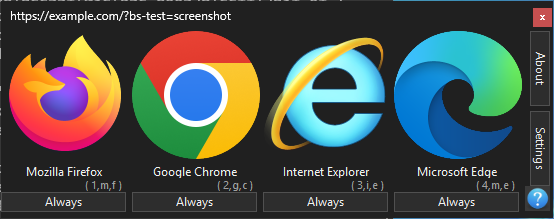
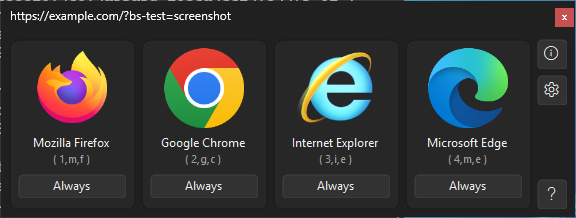
v1.5.8.0: Windows 11 look in every window; README changelog and picker screenshots

diff --git a/BrowserSelect/Properties/AssemblyInfo.cs b/BrowserSelect/Properties/AssemblyInfo.cs
@@ -36,5 +36,5 @@ using System.Runtime.InteropServices;
 // You can specify all the values or you can default the Build and Revision Numbers 
 // by using the '*' as shown below:
 // [assembly: AssemblyVersion("1.0.*")]
-[assembly: AssemblyVersion("1.5.7.0")]
-[assembly: AssemblyFileVersion("1.5.7.0")]
+[assembly: AssemblyVersion("1.5.8.0")]
+[assembly: AssemblyFileVersion("1.5.8.0")]

diff --git a/README.md b/README.md
@@ -79,6 +79,20 @@ Just a list of some ideas that can be integrated into BrowserSelect.
 
 # Changelog
 
+v1.5.8.0
+- **Windows 11 look in every window** (like Settings in 1.5.7.0; layout and appearance only, every feature, shortcut and message works as before). Window corners are the standard Windows 11 rounded corners (8 px, `DWMWCP_ROUND`) for every window; Windows 10 keeps square corners
+- **Browser picker:** every browser is a rounded **card** (icon, name, shortcut hint, rounded *Always* button). The card is tinted and gets an accent-colored border under the mouse and a stronger tint while pressed. Keyboard shortcuts (1-9, letters, custom keys, Shift for a private window, Esc), the right-click *Open in private window* menu, Alt to skip rules, window size and multi-monitor positioning are unchanged
+- The vertical *About* / *Settings* buttons are now small rounded **icon buttons** (ⓘ About, gear Settings, ? help) with tooltips, so long translations no longer have to fit vertically. When an update is available the ? button shows an accent-colored **download arrow** (tooltip: update available). Without an icon font (Segoe Fluent Icons / Segoe MDL2 Assets) the old vertical text buttons are drawn rounded
+- **About** and **Original project info:** large header, the description, GitHub/contact links and the Bitcoin donation (QR code, address, rounded *Copy address*) in cards; *Original project info...* is a rounded button. Long translations wrap instead of being shrunk
+- **Add / Edit browser:** the fields in a card, rounded text fields (accent line at the bottom while editing; read-only fields are greyed), icon preview in a rounded frame with *Change...* / *Default* beside it, *OK* in the accent color; the label column grows with the translation
+- **Help windows** (? and Settings → Auto Select Filters → Help): the text in a rounded card, rounded *Close* button
+- **Update download window:** thin rounded progress bar in the accent color, rounded *Cancel*; the window now also scales with the display (it stayed at 100 % size before)
+- New drawn controls in `BrowserSelect/UI/Fluent.cs`: FluentTextBoxHost (rounded text field), FluentProgressBar; FluentButton can show an icon. No new texts: tooltips reuse existing translations
+- Help (?, all 12 languages): the browser list section describes the small buttons on the right; the *Display scale* line now says that a window bigger than the screen first becomes narrower (as far as its layout allows) and only then gets scroll bars
+- *UI screenshots (manual)* workflow also captures the hovered browser card, *Add browser*, the rules help and the update download window (with a layout/clipping report)
+- README screenshots of the browser picker replaced with the new design
+- Human test recipe: [Tests/human_test/21-tum-pencereler-yeni-tasarim.md](Tests/human_test/21-tum-pencereler-yeni-tasarim.md)
+
 v1.5.7.0
 - **Settings in the Windows 11 look** (layout and appearance only; every setting, button, shortcut and message works as before): a **navigation pane** on the left with one page per former section — *Browsers*, *Default Browser*, *Auto Select Filters*, *Options*, *Update checker* (same names as before, so "Settings → Options" etc. in the help and README are still valid). The selected page is shown with a rounded highlight and an accent-colored indicator bar; icons from Segoe Fluent Icons (Windows 11) or Segoe MDL2 Assets (Windows 10), no icons if neither font exists. *Language*, *Theme* and *Mica* stay at the bottom left; *Close*, *Apply* and "Link opened from" are at the bottom right on every page
 - Each page has a large header and **cards** (rounded sections with a subtle border, slightly lighter than the page in both Light and Dark) instead of group boxes; the browser list and the rule grid sit in rounded fields
